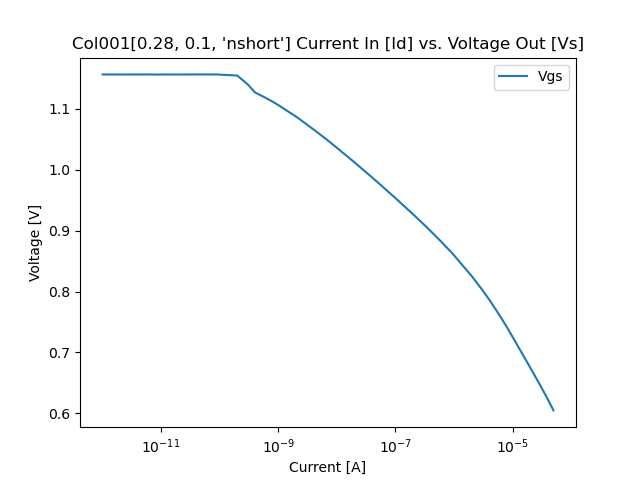
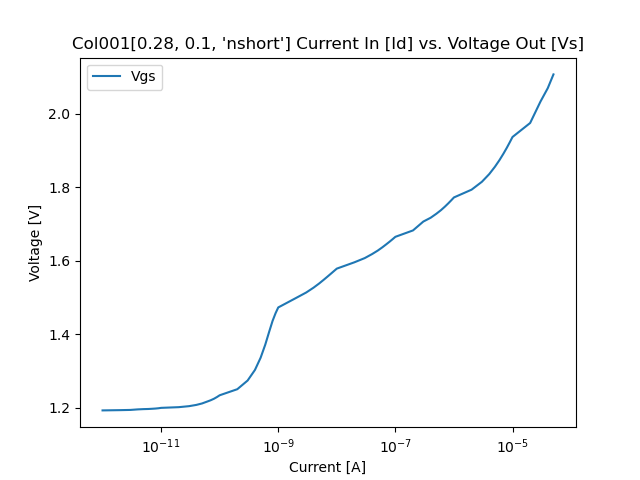
update

diff --git a/Python/idvsChar.py b/Python/idvsChar.py
@@ -67,7 +67,7 @@ currIn = []
 measVs = []
 measVI = []
 vGS = []
-spec=[]
+spec = []
 csData = pd.DataFrame(data=[], index=[], columns=[])  
 pltData = pd.DataFrame(data=[], index=[], columns=[])         #create dataframe
 specData = pd.DataFrame(pd.read_csv('~\miniconda3\envs\\testequ\RTSeval\Files\RTS_Array_Cells.csv',
@@ -87,10 +87,10 @@ voltInc = 34      #int(input('How many steps for Voltage?'))
 smu.apply_current(smu.smua, 0.0)
 smu.apply_current(smu.smub, 0.0)
 colS = "Col001"   
-picLoc = "C:\\Users\\jacob\\miniconda3\\envs\\testequ\\RTSeval\\Python\\Data\\csCharacterization\\"
+picLoc = "C:\\Users\\jacob\\miniconda3\\envs\\testequ\\RTSeval\\Python\\Data\\idvsCharacterization\\idvscharData"
 time.sleep(1)
 decadeList = logScale()
-print(decadeList)
+# print(decadeList)
 for c in range(colNum):
     commandTX = write_cmd(str(3))                                                   # selects the switch case on the pico
     commandRX = pico.read_until().strip().decode()                                  # confirms mode selected
@@ -109,15 +109,18 @@ for c in range(colNum):
         #     measVs = np.append(measVs, float(smu.smub.measure.v()))
         #     vGS = 1.2 - measVs
         #     row = row + 1
-        currIn, measVi, measVs = smu.idvgsChar(smu.smua, smu.smub, decadeList, 0.001, .001)
-        pltData["Vgs"] = measVs
+        currIn, measVI, measVs = smu.idvgsChar(smu.smua, smu.smub, decadeList, 0.1, .01)
+        vGS = measVs 
+        for i in range(len(measVs)):
+            vGS[i] = 1.2 - vGS[i]
+        pltData["Vgs"] = vGS # [1.2 - measVs for i in range(len(measVs))]
         pltData["Id"] = currIn
         csData[colS+'Vs'] = measVs
         csData[colS+'Id'] = currIn
         csData[colS+'Vi'] = measVI
         if debug is True:
-            print(measVs)
-            # print(vGS)
+            print(len(measVs))
+            print(vGS)
         plt.plot(vGS, pltData.Id, label = "Vs")
         plt.yscale('log')
         plt.title(colS + '' + str(spec) +" Id vs Vgs")
@@ -125,16 +128,16 @@ for c in range(colNum):
         plt.ylabel("Id [A]")
         plt.legend()
         plt.savefig(picLoc + colS + str(spec) + "idvg.png")
-        fig = plt.show(block = False)
+        fig1 = plt.show(block = False)
         plt.pause(3)
-        plt.close(fig)
+        plt.close(fig1)
         pltData.plot(x="Id", xlabel="Current [A]", ylabel="Voltage [V]", sharey=True, title=(colS + '' + 
                         str(spec) + " Current In [Id] vs. Voltage Out [Vs]"), legend=True,
                     subplots=False, logx= True)
         plt.savefig(picLoc + colS + str(spec) + "idvs.png")
-        fig = plt.show(block = False)
+        fig2 = plt.show(block = False)
         plt.pause(3)
-        plt.close(fig)
+        plt.close(fig2)
         colS = re.sub(r'[0-9]+$',
             lambda x: f"{str(int(x.group())+1).zfill(len(x.group()))}",    # increments the number in the column name
             colS)
@@ -146,7 +149,7 @@ for c in range(colNum):
         power = 9
         commandRX=0
         colSelect = colSelect + 1
-csData.to_csv('~/miniconda3/envs/testequ/RTSeval/Python/Data/csCharacterization/cscharData' + dt_string + '.csv')
+csData.to_csv('~/miniconda3/envs/testequ/RTSeval/Python/Data/idvsCharacterization/idvscharData' + dt_string + '.csv')
 print(csData)
 smu._write(value='smua.source.output = smua.OUTPUT_OFF')
 smu._write(value='smub.source.output = smub.OUTPUT_OFF')

diff --git a/Python/Test/driverTest.py b/Python/Test/driverTest.py
@@ -1490,6 +1490,8 @@ class Keithley2600(Keithley2600Base):
                 smu.nvbuffer1.clearcache()
                 smu.nvbuffer2.clearcache()
 
+            # smu1.nvbuffer1.collectsourcevalues = 1
+
             self.trigger.blender[1].orenable = True
             self.trigger.blender[1].stimulus[1] = smu1.trigger.ARMED_EVENT_ID            #when moved from arm to trigger layer
             self.trigger.blender[1].stimulus[2] = smu1.trigger.PULSE_COMPLETE_EVENT_ID   # when pulse is complete
@@ -1546,6 +1548,7 @@ class Keithley2600(Keithley2600Base):
                 self.trigger.wait(delay)
                 # self.display.trigger.clear()
 
+            # i_smu1 = self.read_buffer(smu1.nvbuffer1)
             i_smu1 = self.read_buffer(smu1.nvbuffer1)
             v_smu1 = self.read_buffer(smu1.nvbuffer2)
             i_smu2 = self.read_buffer(smu2.nvbuffer1)
@@ -1558,7 +1561,7 @@ class Keithley2600(Keithley2600Base):
                 smu.nvbuffer1.clearcache()
                 smu.nvbuffer2.clearcache()
 
-            return v_smu1, i_smu1, v_smu2
+            return i_smu1, v_smu1, v_smu2
 
 
     def holdA_measAB(self, 

diff --git a/Python/Test/timeSer.py b/Python/Test/timeSer.py
@@ -20,7 +20,7 @@ def logScale():
     decadeList = np.append(decadeList, decade6)
     decadeList = np.append(decadeList, decade7)
     decadeList = np.append(decadeList, decade8) * pow(10, -12)
-    print(len(decadeList))
+    # print(len(decadeList))
     return decadeList
 
 smu = Keithley2600('TCPIP0::192.168.4.11::INSTR')               #set ip addr for smu
@@ -30,11 +30,13 @@ smu = Keithley2600('TCPIP0::192.168.4.11::INSTR')               #set ip addr for
 # vlist = np.logspace(np.log10(pow(10,-12)), np.log10(pow(10,-5)), 200)
 vlist = logScale() 
 print(pow(10, -12))
-print(vlist)
+# print(vlist)
 # smu.ten_Vsweep(smu.smua)
 # v, i = smu.Time10_Vsweep(smu.smua, 100, 0.0002, .0002)
-v1, i1, v2 = smu.idvgsChar(smu.smua, smu.smub, vlist, 0.001, .001)
+v1, i1, v2 = smu.idvgsChar(smu.smua, smu.smub, vlist, 0.01, .001)
 # v1, i1, v2, i2 = smu.holdA_measAB(smu.smua, smu.smub, 10, .01, .001)
+for i in range(len(v2)):
+    v2[i] = 1.2 - v2[i]
 time.sleep(1)
 print(v2)
 print(v1)

diff --git a/Python/idvgChar.py b/Python/idvgChar.py
@@ -19,8 +19,8 @@ smu._write(value='smub.source.autorangev = smub.AUTORANGE_ON')  #set auto range 
 smu.set_integration_time(smu.smua, 0.001)                       # sets integration time in sec
 smu._write(value= 'smua.source.limitv = 3.3')                   #set v liimit smua
 smu._write(value= "smub.source.limitv = 3.3")                   #set v liimit smub
-bkPS = serial.Serial('com6',9600)                               #set com port for BK power supply
-bkdmm = serial.Serial('com7', 9600)                             #set com port for BK power supply
+# bkPS = serial.Serial('com6',9600)                               #set com port for BK power supply
+# bkdmm = serial.Serial('com7', 9600)                             #set com port for BK power supply
 def logScale():
     decade1 = range(1,10)
     decade2 = range(10,100,10)
